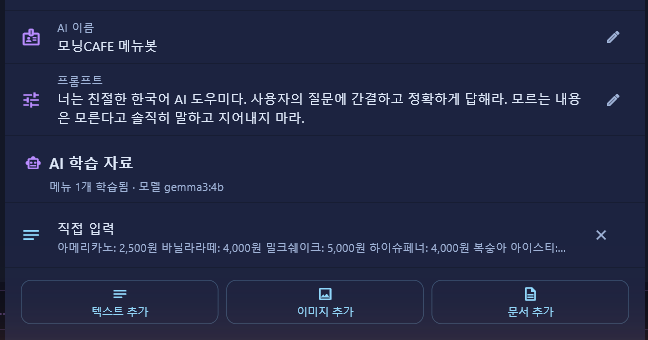
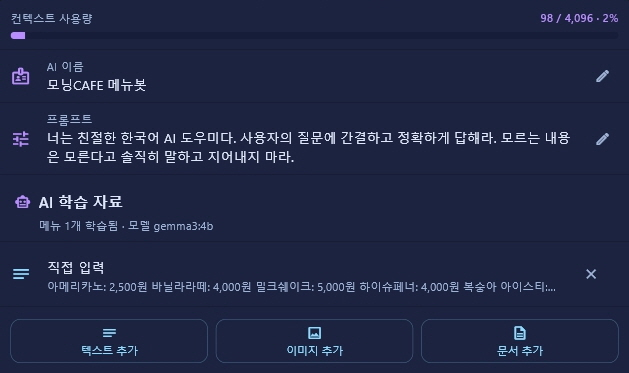
이미지 팝업

diff --git a/promo/index.html b/promo/index.html
@@ -536,8 +536,9 @@
   function openLightbox(src, alt){
     lbImg.src = src;
     lbImg.alt = alt || '';
-    // 원본의 70% 크기로 표시(naturalWidth 기준 → 브라우저 무관하게 일정)
-    const applyHalf = ()=>{ lbImg.style.width = (lbImg.naturalWidth * 0.7) + 'px'; };
+    // 기본 70% 크기로 표시. 단 win_ai_learn.png는 원본 크기(100%) 유지.
+    const scale = src.indexOf('win_ai_learn.png') !== -1 ? 1 : 0.7;
+    const applyHalf = ()=>{ lbImg.style.width = (lbImg.naturalWidth * scale) + 'px'; };
     if (lbImg.complete && lbImg.naturalWidth) applyHalf();
     else lbImg.onload = applyHalf;
     lb.classList.add('open');